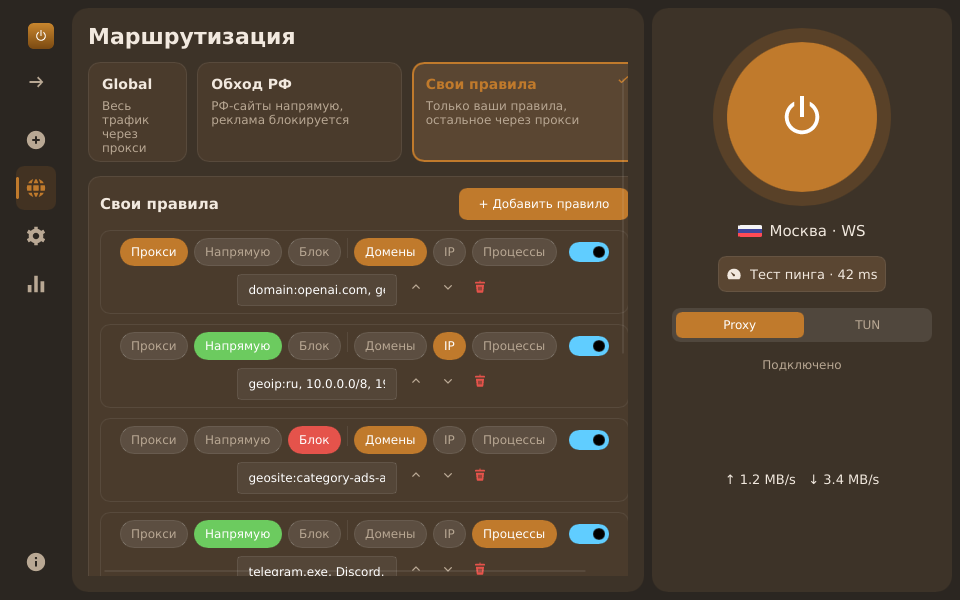
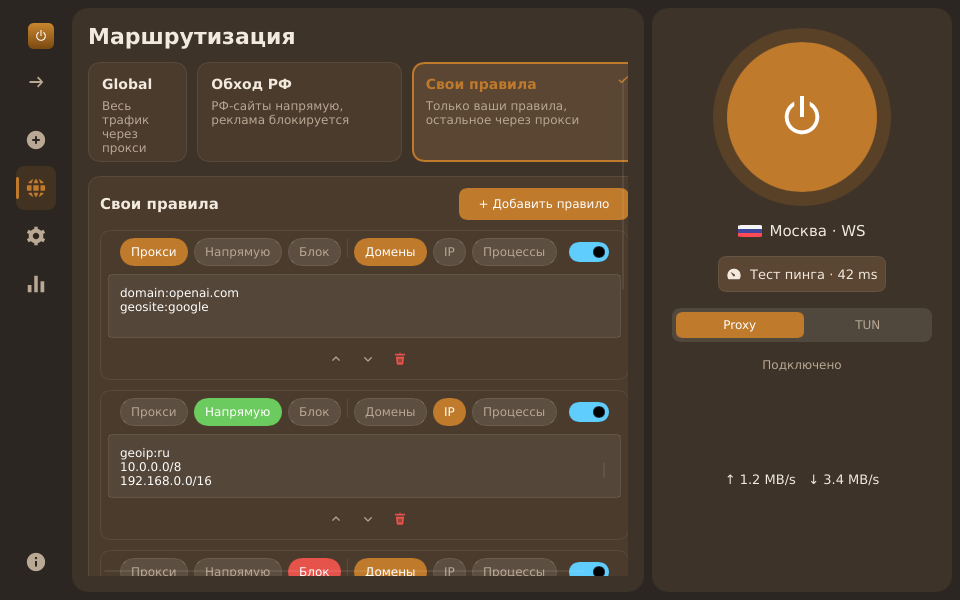
routing: edit rule values as multi-line input (T26)
Split values on commas and newlines (CRLF safe), join one entry per
line; render the field as a full-width 64px TextEdit and move the
up/down/delete buttons to their own row. Regenerate routing screenshots.

diff --git a/app/flamix/src/pages/routing.rs b/app/flamix/src/pages/routing.rs
@@ -92,22 +92,27 @@ fn kind_from_index(index: i32) -> Option<usize> {
     }
 }
 
-/// Split a comma-separated UI value into trimmed, non-empty entries.
+/// Split a UI value into trimmed, non-empty entries.
+///
+/// Entries are separated by commas **or** newlines (`\n`/`\r`, so CRLF works too): the user may
+/// type a comma-separated line and it is re-rendered one entry per line on the next refresh.
+/// Order is preserved and duplicates are kept.
 fn split_values(text: &str) -> Vec<String> {
-    text.split(',')
+    text.split([',', '\n', '\r'])
         .map(str::trim)
         .filter(|s| !s.is_empty())
         .map(str::to_string)
         .collect()
 }
 
+/// Render a rule's value list as one entry per line (the multi-line input format).
 fn join_values(rule: &RoutingRule, kind: usize) -> String {
     let list = match kind {
         1 => &rule.ips,
         2 => &rule.processes,
         _ => &rule.domains,
     };
-    list.join(", ")
+    list.join("\n")
 }
 
 /// Replace the rule's values with `text`, keeping exactly one kind populated.
@@ -728,8 +733,31 @@ mod tests {
         );
         assert!(split_values("  ,  ").is_empty());
         let rule = demo_rule(RuleAction::Direct, &[], &["geoip:ru", "geoip:cn"], &[]);
-        assert_eq!(join_values(&rule, 1), "geoip:ru, geoip:cn");
+        assert_eq!(join_values(&rule, 1), "geoip:ru\ngeoip:cn");
         assert_eq!(join_values(&rule, 0), "");
+    }
+
+    #[test]
+    fn split_values_normalizes_commas_to_newlines() {
+        // Commas, newlines and blank lines all yield the same ordered list ...
+        assert_eq!(
+            split_values("a.com,b.com\nc.com"),
+            vec!["a.com", "b.com", "c.com"]
+        );
+        // ... and the rule is re-rendered one entry per line.
+        let mut rule = demo_rule(RuleAction::Proxy, &[], &[], &[]);
+        set_rule_values(&mut rule, 0, "a.com, b.com\n\n ,c.com\r\nd.com\r\n");
+        assert_eq!(rule.domains, vec!["a.com", "b.com", "c.com", "d.com"]);
+        assert_eq!(join_values(&rule, 0), "a.com\nb.com\nc.com\nd.com");
+    }
+
+    #[test]
+    fn split_values_handles_crlf_and_blank_lines() {
+        assert_eq!(
+            split_values("geosite:ru\r\n\r\ngeoip:ru\r\n"),
+            vec!["geosite:ru", "geoip:ru"]
+        );
+        assert!(split_values("\n\r\n,\n").is_empty());
     }
 
     #[test]
@@ -747,9 +775,16 @@ mod tests {
         change_rule_kind(&mut rule, 1);
         assert!(rule.domains.is_empty());
         assert_eq!(rule.ips, vec!["a.com", "b.com"]);
+        // The moved values survive the multi-line round-trip.
+        assert_eq!(join_values(&rule, 1), "a.com\nb.com");
         // Switching to the same kind is a no-op.
         change_rule_kind(&mut rule, 1);
         assert_eq!(rule.ips, vec!["a.com", "b.com"]);
+        // And a differently-shaped list moves just as well.
+        let mut mixed = demo_rule(RuleAction::Proxy, &[], &[], &["p.exe"]);
+        change_rule_kind(&mut mixed, 0);
+        assert!(mixed.processes.is_empty());
+        assert_eq!(mixed.domains, vec!["p.exe"]);
     }
 
     #[test]
@@ -818,6 +853,19 @@ mod tests {
         assert_eq!(item.kind, 0);
         assert_eq!(item.values.as_str(), "geosite:ads");
         assert!(item.enabled);
+    }
+
+    #[test]
+    fn rule_item_renders_values_one_per_line() {
+        let rule = demo_rule(
+            RuleAction::Direct,
+            &[],
+            &["geoip:ru", "10.0.0.0/8", "192.168.0.0/16"],
+            &[],
+        );
+        let item = rule_item(0, &rule, 0);
+        assert_eq!(item.kind, 1);
+        assert_eq!(item.values.as_str(), "geoip:ru\n10.0.0.0/8\n192.168.0.0/16");
     }
 
     #[test]
